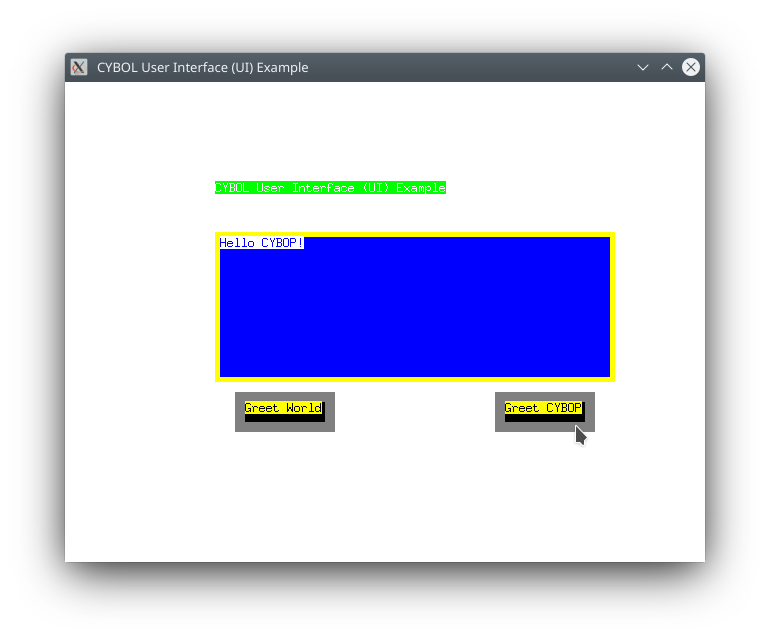
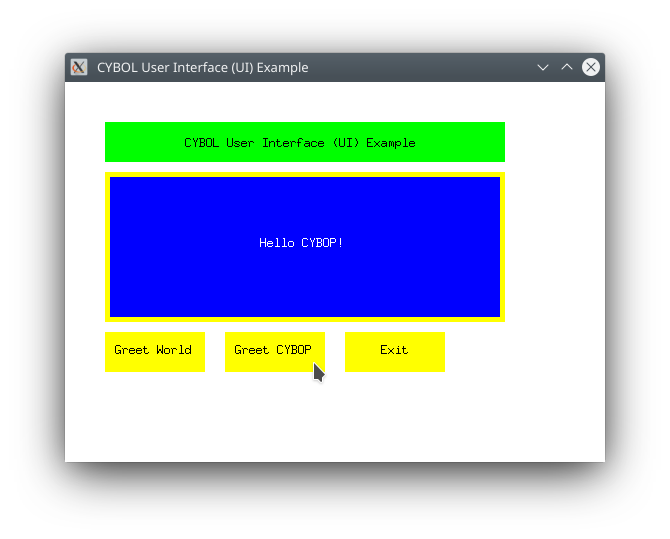
* Beautify user interface cybol applications
git-svn-id: svn+ssh://svn.savannah.nongnu.org/cybop/trunk@5015 b5c8ebf9-7d75-0410-a1b1-c26d7bff6aa0

diff --git a/app/ui/all/wui/format.css b/app/ui/all/wui/format.css
@@ -7,6 +7,7 @@ body {
 }
 
 h1 {
+
     color: green;
     font-size: 18pt;
 }

diff --git a/src/executor/selector/http_request/header_field_http_request_selector.c b/src/executor/selector/http_request/header_field_http_request_selector.c
@@ -54,6 +54,8 @@
 void select_http_request_header_field(void* p0, void* p1, void* p2, void* p3, void* p4) {
 
     log_message_terminated((void*) DEBUG_LEVEL_LOG_CYBOI_MODEL, (void*) L"Select http request header field.");
+    //?? fwprintf(stdout, L"Debug: Select http request header field. header argument count p2: %i\n", p2);
+    //?? fwprintf(stdout, L"Debug: Select http request header field. header argument count *p2: %i\n", *((int*) p2));
 
     //
     // CAUTION! The comparisons below use the ascii character constant "CHARACTER_TEXT_STATE_CYBOI_TYPE"
@@ -555,7 +557,9 @@ void select_http_request_header_field(void* p0, void* p1, void* p2, void* p3, vo
     if (r == *FALSE_BOOLEAN_STATE_CYBOI_MODEL) {
 
         log_message_terminated((void*) WARNING_LEVEL_LOG_CYBOI_MODEL, (void*) L"Could not select http request header field. The header http name is unknown.");
-        fwprintf(stdout, L"Warning: Could not select http request header field. The header http name is unknown. count remaining p2: %i\n", p2);
+        //?? fwprintf(stdout, L"Warning: Could not select http request header field. The header http name is unknown. header argument count p2: %i\n", p2);
+        //?? fwprintf(stdout, L"Warning: Could not select http request header field. The header http name is unknown. header argument count *p2: %i\n", *((int*) p2));
+        //?? fwprintf(stdout, L"Warning: Could not select http request header field. The header http name is unknown. header argument data p1: %ls\n", (wchar_t*) p1);
     }
 }
 

diff --git a/src/executor/selector/http_response/header_entry_http_response_selector.c b/src/executor/selector/http_response/header_entry_http_response_selector.c
@@ -689,9 +689,16 @@ void select_http_response_header_entry(void* p0, void* p1, void* p2, void* p3, v
 
     if (r == *FALSE_BOOLEAN_STATE_CYBOI_MODEL) {
 
-        log_message_terminated((void*) WARNING_LEVEL_LOG_CYBOI_MODEL, (void*) L"Could not select http response header entry. The http response header entry is unknown.");
-        fwprintf(stdout, L"Warning: Could not select http response header entry. The http response header entry is unknown. name count p2: %i\n", p2);
-        fwprintf(stdout, L"Warning: Could not select http response header entry. The http response header entry is unknown. name count *p2: %i\n", *((int*) p2));
+        //
+        // CAUTION! This message is commented out since sometimes,
+        // additional properties like for example "encoding"
+        // are added, but unknown here.
+        //
+        // log_message_terminated((void*) WARNING_LEVEL_LOG_CYBOI_MODEL, (void*) L"Could not select http response header entry. The http response header entry is unknown.");
+        // fwprintf(stdout, L"Warning: Could not select http response header entry. The http response header entry is unknown. name count p2: %i\n", p2);
+        // fwprintf(stdout, L"Warning: Could not select http response header entry. The http response header entry is unknown. name count *p2: %i\n", *((int*) p2));
+        // fwprintf(stdout, L"Warning: Could not select http response header entry. The http response header entry is unknown. name data p1: %ls\n", (wchar_t*) p1);
+        //
     }
 }
 

diff --git a/src/executor/representer/deserialiser/http_request_message_length/http_request_message_length_deserialiser.c b/src/executor/representer/deserialiser/http_request_message_length/http_request_message_length_deserialiser.c
@@ -45,8 +45,8 @@
 void deserialise_http_request_message_length(void* p0, void* p1, void* p2) {
 
     log_message_terminated((void*) DEBUG_LEVEL_LOG_CYBOI_MODEL, (void*) L"Deserialise http request message length.");
-    fwprintf(stdout, L"Debug: Deserialise http request message length. source message count p2: %i\n", p2);
-    fwprintf(stdout, L"Debug: Deserialise http request message length. source message count *p2: %i\n", *((int*) p2));
+    //?? fwprintf(stdout, L"Debug: Deserialise http request message length. source message count p2: %i\n", p2);
+    //?? fwprintf(stdout, L"Debug: Deserialise http request message length. source message count *p2: %i\n", *((int*) p2));
 
     //
     // CAUTION! An http message (request or response) HEADER section
@@ -71,8 +71,8 @@ void deserialise_http_request_message_length(void* p0, void* p1, void* p2) {
     // Determine payload length.
     deserialise_http_request_content_length((void*) &p, p1, p2);
 
-    fwprintf(stdout, L"Debug: Deserialise http request message length. header h: %i\n", h);
-    fwprintf(stdout, L"Debug: Deserialise http request message length. payload p: %i\n", p);
+    //?? fwprintf(stdout, L"Debug: Deserialise http request message length. header h: %i\n", h);
+    //?? fwprintf(stdout, L"Debug: Deserialise http request message length. payload p: %i\n", p);
 
     //
     // Add header- and payload length.

diff --git a/src/executor/activator/enabler/bsd_socket/bsd_socket_enabler.c b/src/executor/activator/enabler/bsd_socket/bsd_socket_enabler.c
@@ -48,8 +48,8 @@ void enable_bsd_socket(void* p0, void* p1) {
         int* s = (int*) p1;
 
         log_message_terminated((void*) DEBUG_LEVEL_LOG_CYBOI_MODEL, (void*) L"Enable bsd socket.");
-        fwprintf(stdout, L"Debug: Enable bsd socket p1: %i\n", p1);
-        fwprintf(stdout, L"Debug: Enable bsd socket *p1: %i\n", *((int*) p1));
+        //?? fwprintf(stdout, L"Debug: Enable bsd socket p1: %i\n", p1);
+        //?? fwprintf(stdout, L"Debug: Enable bsd socket *p1: %i\n", *((int*) p1));
 
         //
         // Initialise error number.
@@ -89,7 +89,7 @@ void enable_bsd_socket(void* p0, void* p1) {
         if (c >= *NUMBER_0_INTEGER_STATE_CYBOI_MODEL) {
 
             log_message_terminated((void*) DEBUG_LEVEL_LOG_CYBOI_MODEL, (void*) L"Enable bsd socket. success");
-            fwprintf(stdout, L"Debug: Enable bsd socket. success. client socket c: %i\n", c);
+            //?? fwprintf(stdout, L"Debug: Enable bsd socket. success. client socket c: %i\n", c);
 
             // Copy client socket to destination.
             copy_integer(p0, (void*) &c);

diff --git a/src/executor/representer/deserialiser/blank_line_termination/blank_line_termination_deserialiser.c b/src/executor/representer/deserialiser/blank_line_termination/blank_line_termination_deserialiser.c
@@ -44,8 +44,8 @@
 void deserialise_blank_line_termination(void* p0, void* p1, void* p2) {
 
     log_message_terminated((void*) DEBUG_LEVEL_LOG_CYBOI_MODEL, (void*) L"Deserialise blank line termination.");
-    fwprintf(stdout, L"Debug: Deserialise blank line termination. source message count p2: %i\n", p2);
-    fwprintf(stdout, L"Debug: Deserialise blank line termination. source message count *p2: %i\n", *((int*) p2));
+    //?? fwprintf(stdout, L"Debug: Deserialise blank line termination. source message count p2: %i\n", p2);
+    //?? fwprintf(stdout, L"Debug: Deserialise blank line termination. source message count *p2: %i\n", *((int*) p2));
 
     // The source data position.
     void* d = *NULL_POINTER_STATE_CYBOI_MODEL;

diff --git a/src/executor/representer/deserialiser/blank_line_termination/data_blank_line_termination_deserialiser.c b/src/executor/representer/deserialiser/blank_line_termination/data_blank_line_termination_deserialiser.c
@@ -47,8 +47,8 @@
 void deserialise_blank_line_termination_data(void* p0, void* p1, void* p2) {
 
     log_message_terminated((void*) DEBUG_LEVEL_LOG_CYBOI_MODEL, (void*) L"Deserialise blank line termination data.");
-    fwprintf(stdout, L"Debug: Deserialise blank line termination data. p2: %i\n", p2);
-    fwprintf(stdout, L"Debug: Deserialise blank line termination data. *p2: %i\n", *((int*) p2));
+    //?? fwprintf(stdout, L"Debug: Deserialise blank line termination data. p2: %i\n", p2);
+    //?? fwprintf(stdout, L"Debug: Deserialise blank line termination data. *p2: %i\n", *((int*) p2));
 
     // The blank line termination data, count.
     void* bd = *NULL_POINTER_STATE_CYBOI_MODEL;

diff --git a/src/executor/streamer/reader/handler_reader.c b/src/executor/streamer/reader/handler_reader.c
@@ -88,7 +88,7 @@ void read_handler(void* p0, void* p1, void* p2, void* p3, void* p4, void* p5, vo
         // has closed its connexion.
         //
 
-        fwprintf(stdout, L"\n\n\nDebug: Read handler. close flag *p8: %i\n\n\n", *((int*) p8));
+        //?? fwprintf(stdout, L"\n\n\nDebug: Read handler. close flag *p8: %i\n\n\n", *((int*) p8));
 
         //
         // Set client stub sensing thread exit flag.

diff --git a/src/executor/activator/enabler/xcb/client_xcb_enabler.c b/src/executor/activator/enabler/xcb/client_xcb_enabler.c
@@ -224,7 +224,7 @@ void enable_xcb_client(void* p0, void* p1) {
 
         } else if (t == XCB_MAPPING_NOTIFY) {
 
-            fwprintf(stdout, L"Debug: Enable xcb client. TODO ?? XCB_MAPPING_NOTIFY t: %i\n", t);
+            //?? fwprintf(stdout, L"Debug: Enable xcb client. TODO ?? XCB_MAPPING_NOTIFY t: %i\n", t);
 
         } else if (t == XCB_MOTION_NOTIFY) {
 
